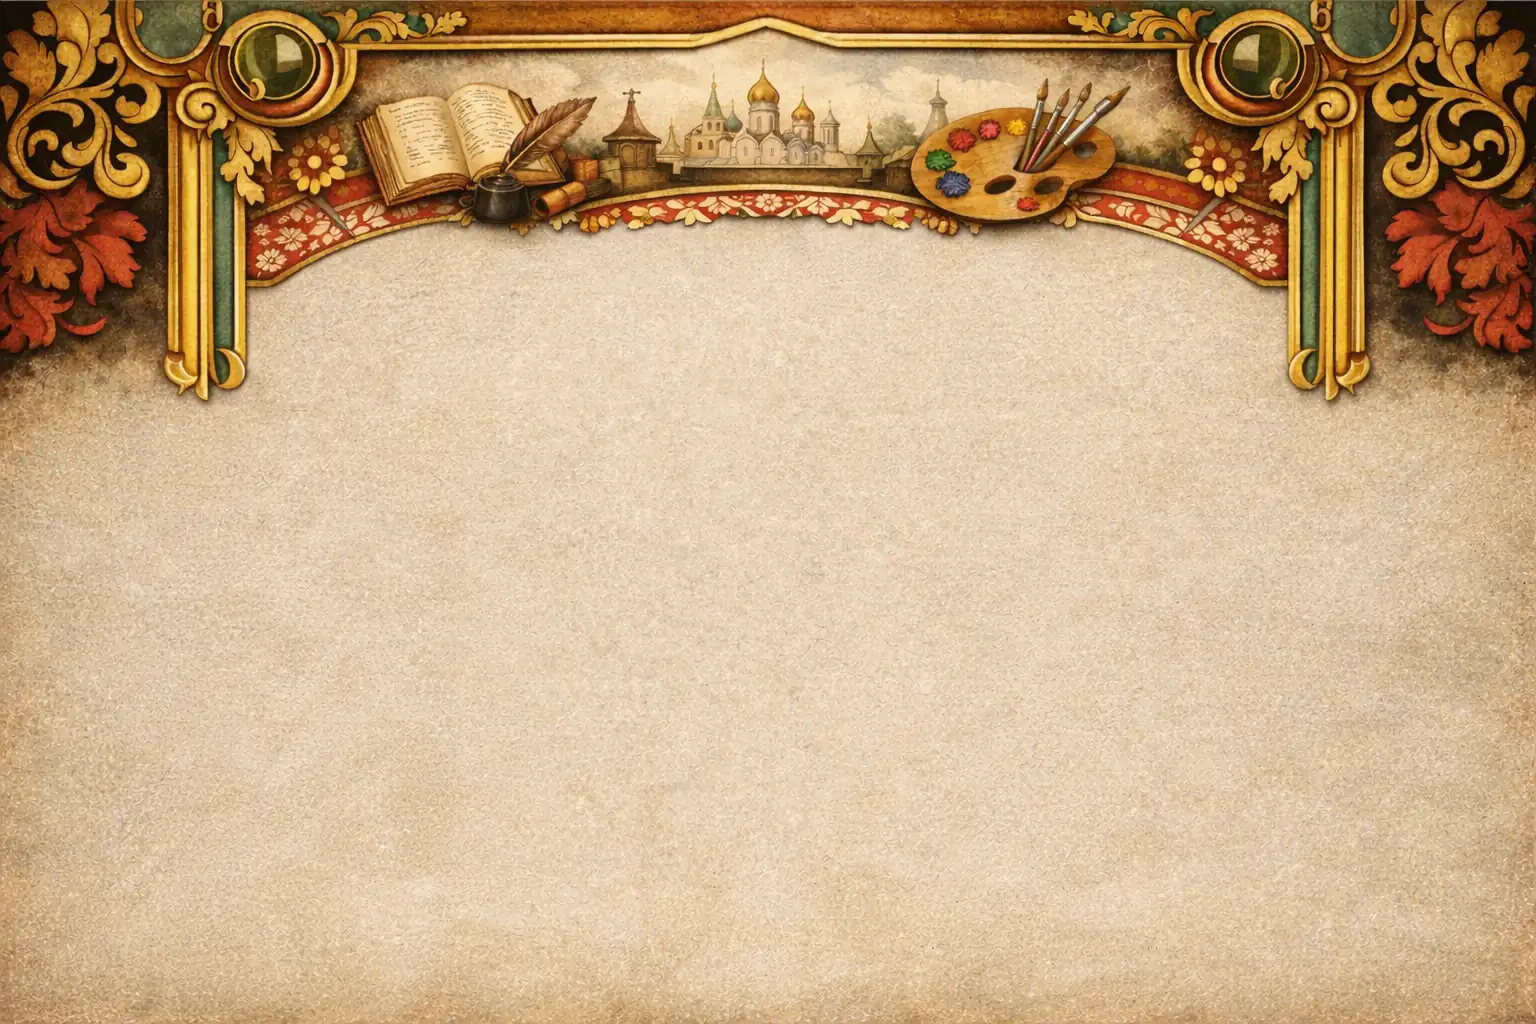
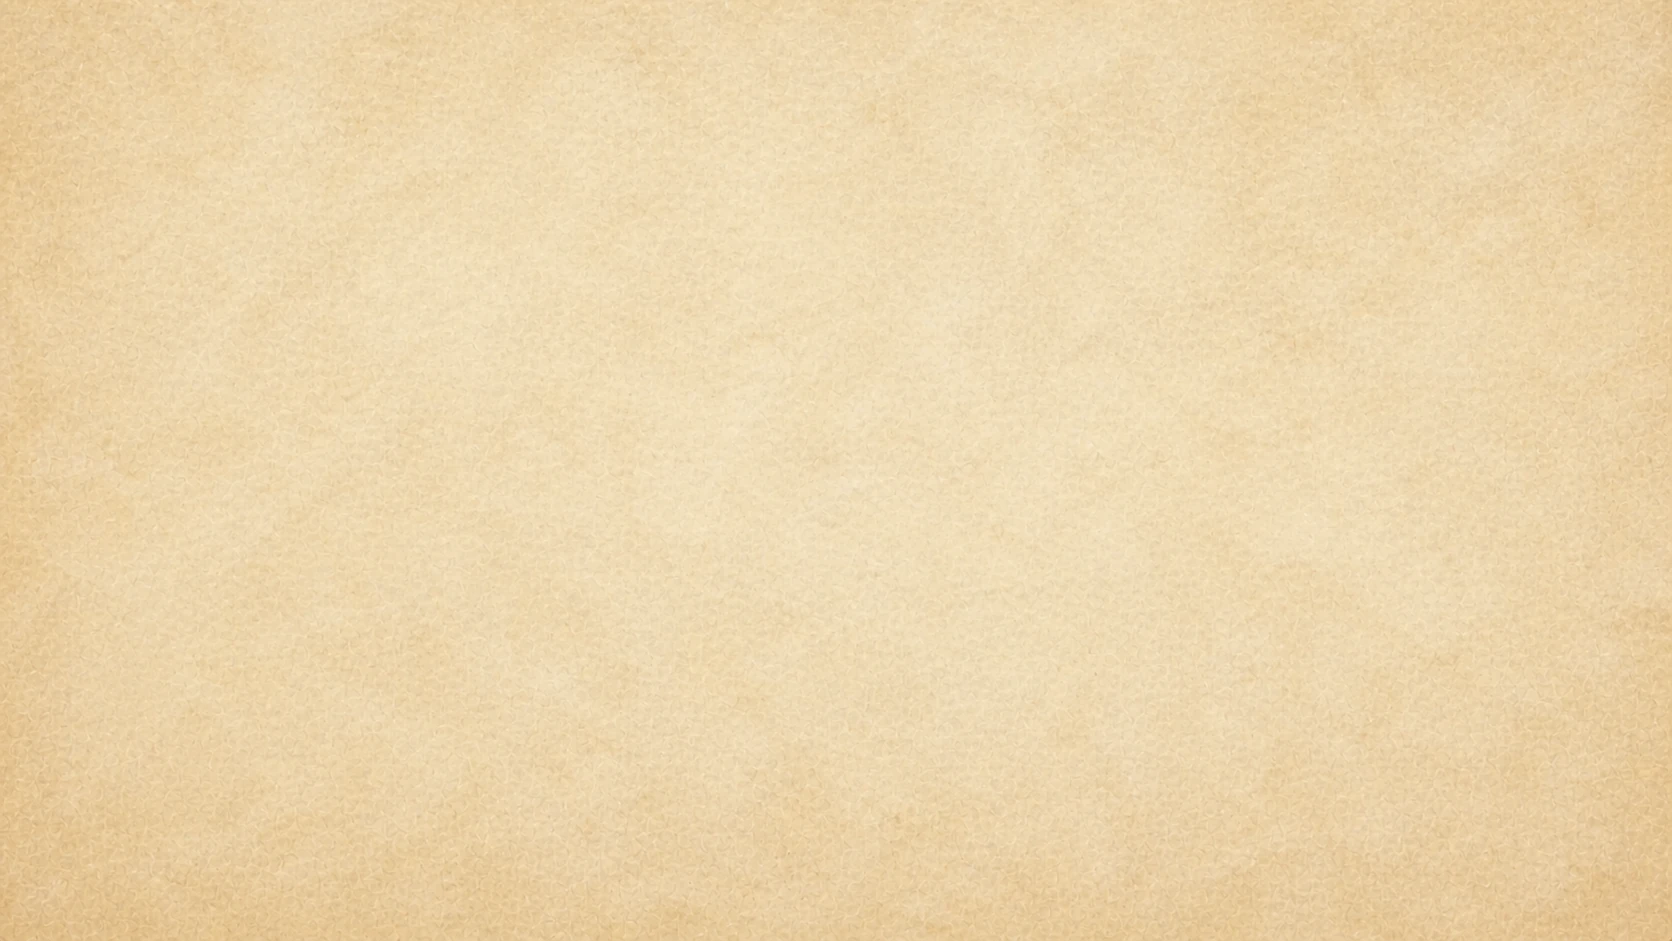
Added new bg in main page and arch

diff --git a/src/app/page.tsx b/src/app/page.tsx
@@ -17,6 +17,7 @@ export default function Home() {
     const handleScroll = () => {
       setShowScrollTop(window.scrollY > window.innerHeight * 0.5);
     };
+
     window.addEventListener("scroll", handleScroll, { passive: true });
     return () => window.removeEventListener("scroll", handleScroll);
   }, []);
@@ -28,35 +29,69 @@ export default function Home() {
 
   return (
     <main className="relative min-h-screen w-full bg-black flex flex-col items-center justify-start">
-      {/* <section className="relative min-h-screen w-full flex items-center justify-center overflow-hidden bg-[#d7c5a9]">
-        <div className="absolute inset-0 z-0">
-          <Image src="/main-bg.webp" alt="background" fill priority className="object-cover object-top" sizes="100vw" />
-        </div>
+      <section className="relative min-h-svh w-full overflow-hidden bg-[#d7c5a9]">
+        <div
+          className="
+            absolute inset-0 z-0
+            bg-[url('/main-bg.webp')]
+            bg-cover bg-center bg-no-repeat
+    "
+        />
 
-        <div className="relative z-10 w-full h-full max-w-5xl mx-auto">
-          <div className="absolute top-[24%] md:top-[28%] left-1/2 -translate-x-1/2 flex flex-col items-center w-full gap-[1vh]">
-            <h1 className="flex flex-col items-center text-center gap-1 group">
-              <span className="font-badscript text-[clamp(1.1rem,2.2vh,1.8rem)] leading-tight text-stone-800">
+        <Image
+          src="/ornate-arch-transparent-light.webp"
+          alt=""
+          width={1440}
+          height={480}
+          priority
+          className="
+            pointer-events-none
+            absolute top-0 left-1/2 z-10
+            h-auto
+            w-[clamp(1180px,100vw,1920px)]
+            max-w-none
+            -translate-x-1/2
+            select-none
+    "
+          sizes="(max-width: 640px) 1180px, (max-width: 1024px) 1350px, 100vw"
+        />
+
+        <div className="relative z-20 mx-auto min-h-svh w-full max-w-5xl px-4">
+          <div className="flex min-h-svh w-full flex-col items-center pt-[clamp(245px,18vw,360px)]">
+            <h1 className="flex max-w-[1100px] flex-col items-center text-center gap-1">
+              <span className="font-badscript text-[clamp(1rem,1.25vw,1.55rem)] leading-tight text-stone-800">
                 Традиционные духовно-нравственные
               </span>
-              <span className="uppercase text-red-900 font-ptserif text-[clamp(1.4rem,4.2vh,2.5rem)] leading-none font-bold tracking-tight">
+
+              <span
+                className="
+            uppercase text-red-900 font-ptserif
+            text-[clamp(1.45rem,2.25vw,2.75rem)]
+            leading-none font-bold tracking-tight
+          ">
                 ценности через Российскую культуру
               </span>
-              <span className="font-badscript text-[clamp(0.9rem,1.8vh,1.6rem)] text-stone-700">
+
+              <span className="font-badscript text-[clamp(0.9rem,1.05vw,1.35rem)] text-stone-700">
                 (писатели, поэты, художники)
               </span>
             </h1>
 
-            <div className="relative flex flex-col items-center gap-[1.5vh] w-full mt-[2vh]">
+            <div
+              className="
+          relative mt-[clamp(18px,2vw,34px)]
+          flex w-full flex-col items-center
+          gap-[clamp(12px,1.2vw,22px)]
+        ">
               <Link
                 href="#about"
                 className="
                   absolute
-                  -top-6
-                  right-[5%] md:right-[15%] lg:right-[20%]
+                  -top-7
+                  right-2 sm:right-6 md:right-[clamp(1rem,18vw,13rem)]
                   cursor-pointer
-                  w-8 h-8 
-                  rounded-full 
+                  w-8 h-8
+                  rounded-full
                   flex items-center justify-center
                   bg-[#e8d5b5]
                   border-2 border-[#8b6914]
@@ -71,7 +106,7 @@ export default function Home() {
                 i
               </Link>
 
-              <nav className="flex flex-col items-center gap-[1.5vh] w-full">
+              <nav className="flex w-full flex-col items-center gap-[clamp(12px,1.2vw,22px)]">
                 {links.map((l) => (
                   <Link
                     href={l.href}
@@ -79,95 +114,18 @@ export default function Home() {
                     className="
                       relative
                       font-hand font-bold
-                      w-[clamp(220px,25vh,280px)]
+                      w-[clamp(220px,17vw,300px)]
                       aspect-360/172
-                      bg-[url(/button.avif)] bg-contain bg-no-repeat bg-center
+                      bg-[url('/button.avif')] bg-contain bg-no-repeat bg-center
                       flex items-center justify-center
-                      text-[clamp(1.1rem,2.4vh,1.5rem)]
+                      text-[clamp(1.05rem,1.5vw,1.65rem)]
                       text-[#4a3421]
-                      whitespace-nowrap 
+                      whitespace-nowrap
                       pb-[1%] px-[15%] text-center leading-tight
                       transition-all duration-300 ease-out
                       hover:scale-105 hover:brightness-110
                       active:scale-95
-                    ">
-                    {l.title}
-                  </Link>
-                ))}
-              </nav>
-            </div>
-          </div>
-        </div>
-      </section> */}
-
-      <section className="relative min-h-screen w-full flex items-center justify-center overflow-hidden bg-[#d7c5a9]">
-        <div className="absolute inset-0 z-0">
-          <Image src="/main-bg.webp" alt="background" fill priority className="object-cover object-top" sizes="100vw" />
-        </div>
-
-        <div className="relative z-10 w-full h-full max-w-5xl mx-auto">
-          {/* 
-      Заменили top-[24%] на динамический отступ через pt.
-      На мобилках минимум 160px, на десктопе минимум 260px.
-      Если экран высокий, сработает 24vh/28vh. Если низкий и широкий — сработает px.
-    */}
-          <div className="absolute inset-x-0 top-0 flex flex-col items-center w-full gap-[1vh] pt-[max(160px,24vh)] md:pt-[max(260px,28vh)]">
-            <h1 className="flex flex-col items-center text-center gap-1 group">
-              <span className="font-badscript text-[clamp(1.1rem,2.2vh,1.8rem)] leading-tight text-stone-800">
-                Традиционные духовно-нравственные
-              </span>
-              <span className="uppercase text-red-900 font-ptserif text-[clamp(1.4rem,4.2vh,2.5rem)] leading-none font-bold tracking-tight">
-                ценности через Российскую культуру
-              </span>
-              <span className="font-badscript text-[clamp(0.9rem,1.8vh,1.6rem)] text-stone-700">
-                (писатели, поэты, художники)
-              </span>
-            </h1>
-
-            <div className="relative flex flex-col items-center gap-[1.5vh] w-full mt-[2vh]">
-              <Link
-                href="#about"
-                className="
-            absolute
-            -top-6
-            right-[5%] md:right-[15%] lg:right-[20%]
-            cursor-pointer
-            w-8 h-8 
-            rounded-full 
-            flex items-center justify-center
-            bg-[#e8d5b5]
-            border-2 border-[#8b6914]
-            text-[#3d3226]
-            font-serif text-2xl font-bold
-            shadow-[0_4px_8px_rgba(0,0,0,0.3),inset_0_2px_4px_rgba(255,255,255,0.5)]
-            hover:bg-[#f0e0c0]
-            hover:scale-110
-            transition-all duration-300
-            z-20
-          ">
-                i
-              </Link>
-
-              <nav className="flex flex-col items-center gap-[1.5vh] w-full">
-                {links.map((l) => (
-                  <Link
-                    href={l.href}
-                    key={l.title}
-                    className="
-                relative
-                font-hand font-bold
-                w-[clamp(220px,25vh,280px)]
-                aspect-360/172
-                bg-[url(/button.avif)] bg-contain bg-no-repeat bg-center
-                flex items-center justify-center
-                text-[clamp(1.1rem,2.4vh,1.5rem)]
-                text-[#4a3421]
-                whitespace-nowrap 
-                pb-[1%] px-[15%] text-center leading-tight
-                transition-all duration-300 ease-out
-                hover:scale-105 hover:brightness-110
-                active:scale-95
-              ">
+                   ">
                     {l.title}
                   </Link>
                 ))}
@@ -181,19 +139,20 @@ export default function Home() {
         <div className="flex items-center justify-center bg-[#faf6eb]">
           <div className="max-w-5xl w-full">
             <div className="p-6 md:p-12 relative overflow-hidden">
-              <div className="absolute top-3 left-3 w-4 h-4 border-t-2 border-l-2 border-[#c2a366] rounded-tl-lg"></div>
-              <div className="absolute top-3 right-3 w-4 h-4 border-t-2 border-r-2 border-[#c2a366] rounded-tr-lg"></div>
-              <div className="absolute bottom-3 left-3 w-4 h-4 border-b-2 border-l-2 border-[#c2a366] rounded-bl-lg"></div>
-              <div className="absolute bottom-3 right-3 w-4 h-4 border-b-2 border-r-2 border-[#c2a366] rounded-br-lg"></div>
+              <div className="absolute top-3 left-3 w-4 h-4 border-t-2 border-l-2 border-[#c2a366] rounded-tl-lg" />
+              <div className="absolute top-3 right-3 w-4 h-4 border-t-2 border-r-2 border-[#c2a366] rounded-tr-lg" />
+              <div className="absolute bottom-3 left-3 w-4 h-4 border-b-2 border-l-2 border-[#c2a366] rounded-bl-lg" />
+              <div className="absolute bottom-3 right-3 w-4 h-4 border-b-2 border-r-2 border-[#c2a366] rounded-br-lg" />
 
               <div className="text-center mb-10">
                 <h2 className="font-ptserif text-[clamp(1.8rem,3vw,2.5rem)] text-[#8b4513] font-bold tracking-wide">
                   О проекте
                 </h2>
+
                 <div className="flex items-center justify-center gap-3 mt-3">
-                  <span className="h-px w-12 bg-linear-to-r from-transparent to-[#c2a366]"></span>
+                  <span className="h-px w-12 bg-linear-to-r from-transparent to-[#c2a366]" />
                   <span className="text-[#c2a366] text-xl">❦</span>
-                  <span className="h-px w-12 bg-linear-to-l from-transparent to-[#c2a366]"></span>
+                  <span className="h-px w-12 bg-linear-to-l from-transparent to-[#c2a366]" />
                 </div>
               </div>
 
@@ -252,8 +211,12 @@ export default function Home() {
           shadow-[0_4px_8px_rgba(0,0,0,0.3),inset_0_2px_4px_rgba(255,255,255,0.5)]
           hover:bg-[#f0e0c0] hover:scale-110 active:scale-100
           transition-all duration-300 ease-in-out
-    ${showScrollTop ? "opacity-100 translate-y-0 pointer-events-auto" : "opacity-0 translate-y-4 pointer-events-none"}
-  `}>
+          ${
+            showScrollTop
+              ? "opacity-100 translate-y-0 pointer-events-auto"
+              : "opacity-0 translate-y-4 pointer-events-none"
+          }
+        `}>
         <svg className="w-5 h-5 md:w-6 md:h-6" fill="none" stroke="currentColor" viewBox="0 0 24 24">
           <path strokeLinecap="round" strokeLinejoin="round" strokeWidth={2.5} d="M5 15l7-7 7 7" />
         </svg>
